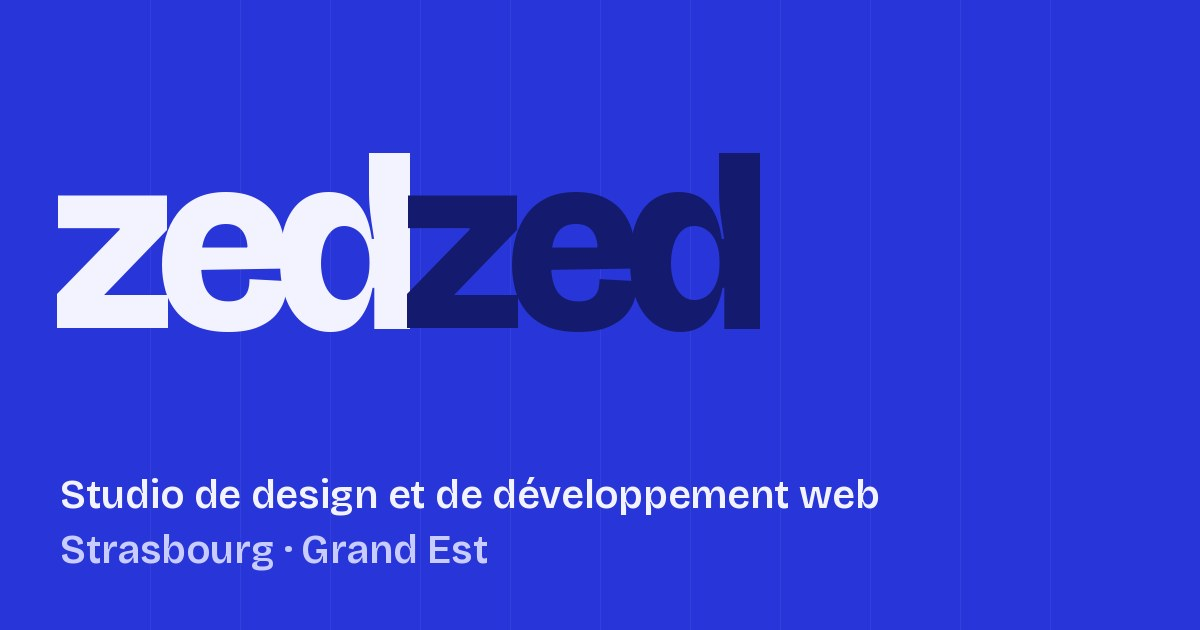
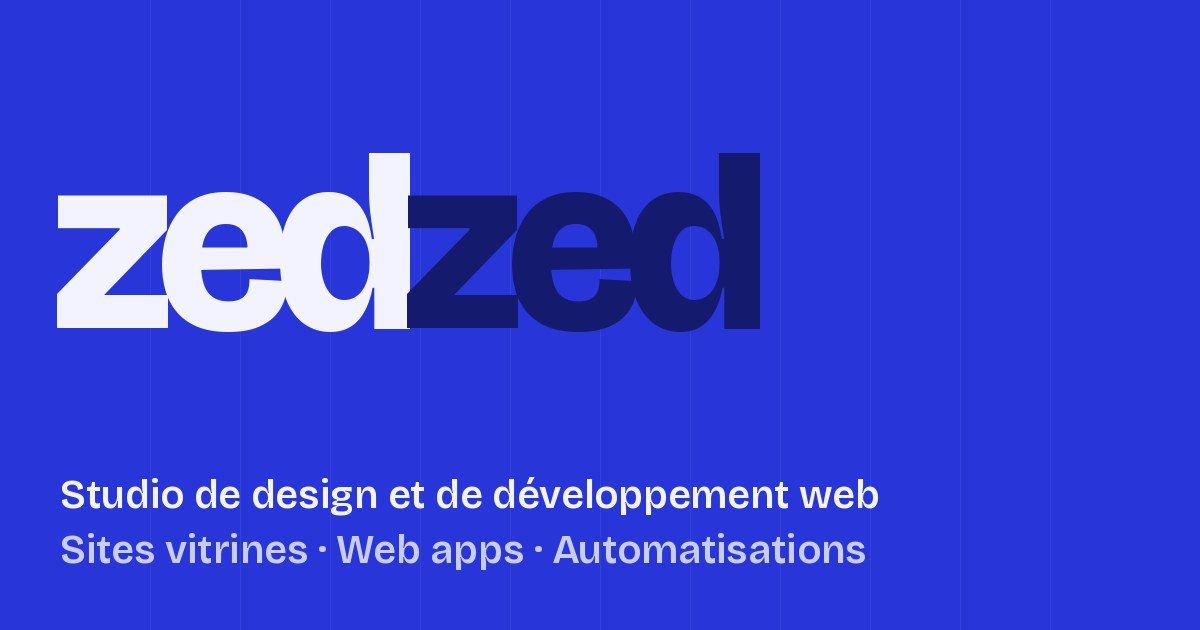
Retire les mentions de ville : zedzed travaille partout en France
Hero, footer, FAQ, titre, description, données structurées et image de partage.

Claude-Session: https://claude.ai/code/session_013uQTHbJ8tbLUHCkQBbJRWc

Changed region(s): [[0.0617, 0.8444, 0.74, 0.9048]]

diff --git a/src/scripts/site.js b/src/scripts/site.js
@@ -7,15 +7,14 @@
   const edgeCheck = () => edge.classList.toggle('off', innerHeight + scrollY >= document.documentElement.scrollHeight - 8);
   addEventListener('scroll', edgeCheck, { passive: true }); addEventListener('resize', edgeCheck); edgeCheck();
 
-  // Footer : hauteur réservée sous la page, logo qui monte pendant la révélation, heure de Strasbourg
+  // Footer : hauteur réservée sous la page, logo qui monte pendant la révélation, 
   const ftWrap = document.querySelector('.ft-wrap'), ft = document.querySelector('.ft'), ftLogo = document.querySelector('.ft-logo span');
   const ftSize = () => { ftWrap.style.setProperty('--fh', ft.offsetHeight + 'px'); ft.classList.toggle('flat', ft.offsetHeight > innerHeight - 40); };
   addEventListener('resize', ftSize);
   new ResizeObserver(ftSize).observe(ft); ftSize();
   const ftMove = () => { const r = ftWrap.getBoundingClientRect(); const p = Math.min(Math.max((innerHeight - r.top) / r.height, 0), 1); ftLogo.style.setProperty('--ly', (18 * (1 - p)).toFixed(2) + '%'); };
   if (!reduce) { addEventListener('scroll', () => requestAnimationFrame(ftMove), { passive: true }); ftMove(); } else ftLogo.style.setProperty('--ly', '0%');
-  const clock = document.querySelector('.clock'), fmt = new Intl.DateTimeFormat('fr-FR', { hour: '2-digit', minute: '2-digit', timeZone: 'Europe/Paris' });
-  const tick = () => { clock.textContent = fmt.format(new Date()); }; tick(); setInterval(tick, 15000);
+
 
   // Footer : calendrier Cal.com, chargé seulement quand on approche du bas de page
   const calBox = document.getElementById('cal-zedzed');

diff --git a/src/data/site.ts b/src/data/site.ts
@@ -3,8 +3,6 @@ export const site = {
   url: 'https://zed-zed.com',
   email: 'contact@zed-zed.com',
   cal: 'zedzed/20min',            // lien Cal.com, sans « https://cal.com/ »
-  ville: 'Strasbourg',
-  region: 'Grand Est',
   linkedin: '',                   // à remplir : l'adresse de la page LinkedIn
-  description: 'Studio de design et de développement web à Strasbourg. Sites vitrines, web apps et automatisations pour les entreprises du Grand Est, dessinés à la main et codés jusqu’au dernier détail.',
+  description: 'zedzed, studio de design et de développement web. Sites vitrines, web apps et automatisations pour les entreprises partout en France, dessinés à la main et codés jusqu’au dernier détail.',
 };
